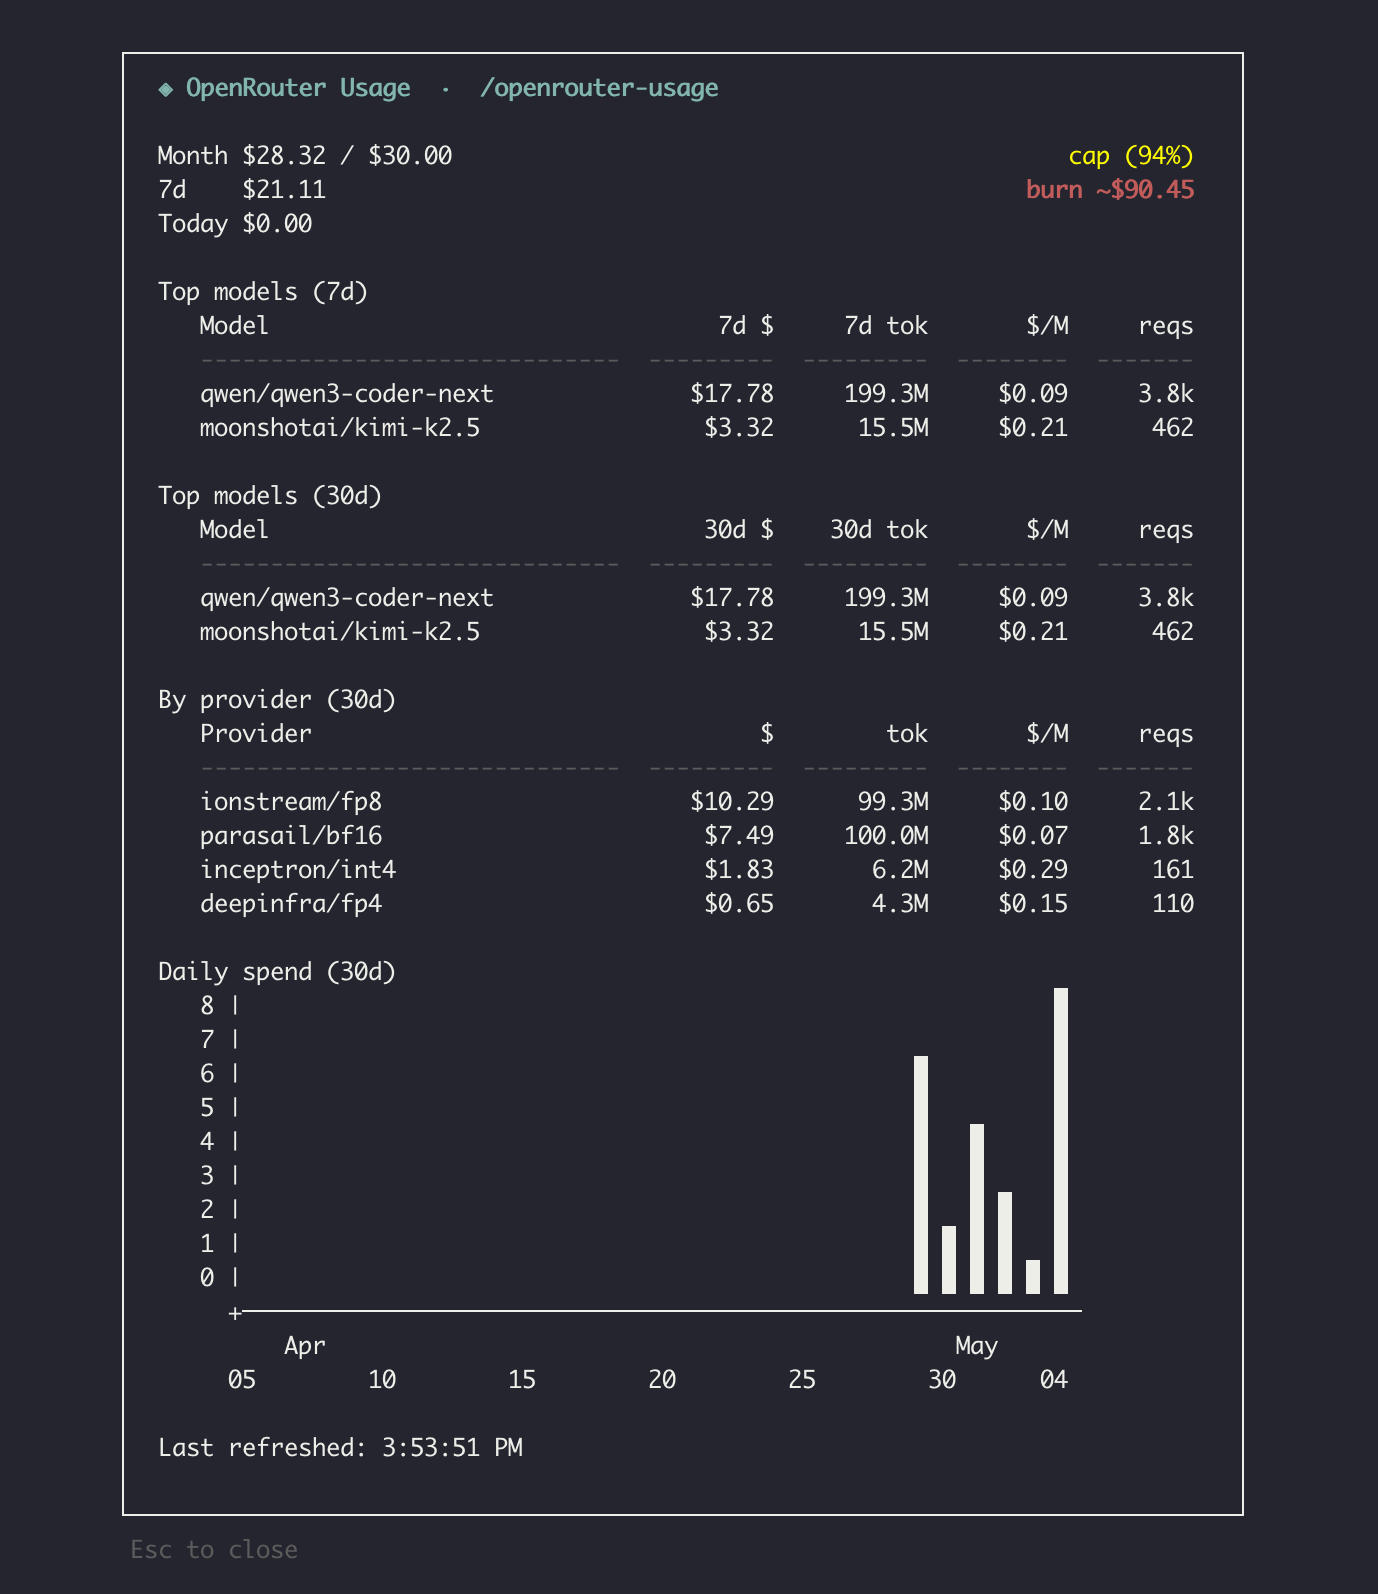
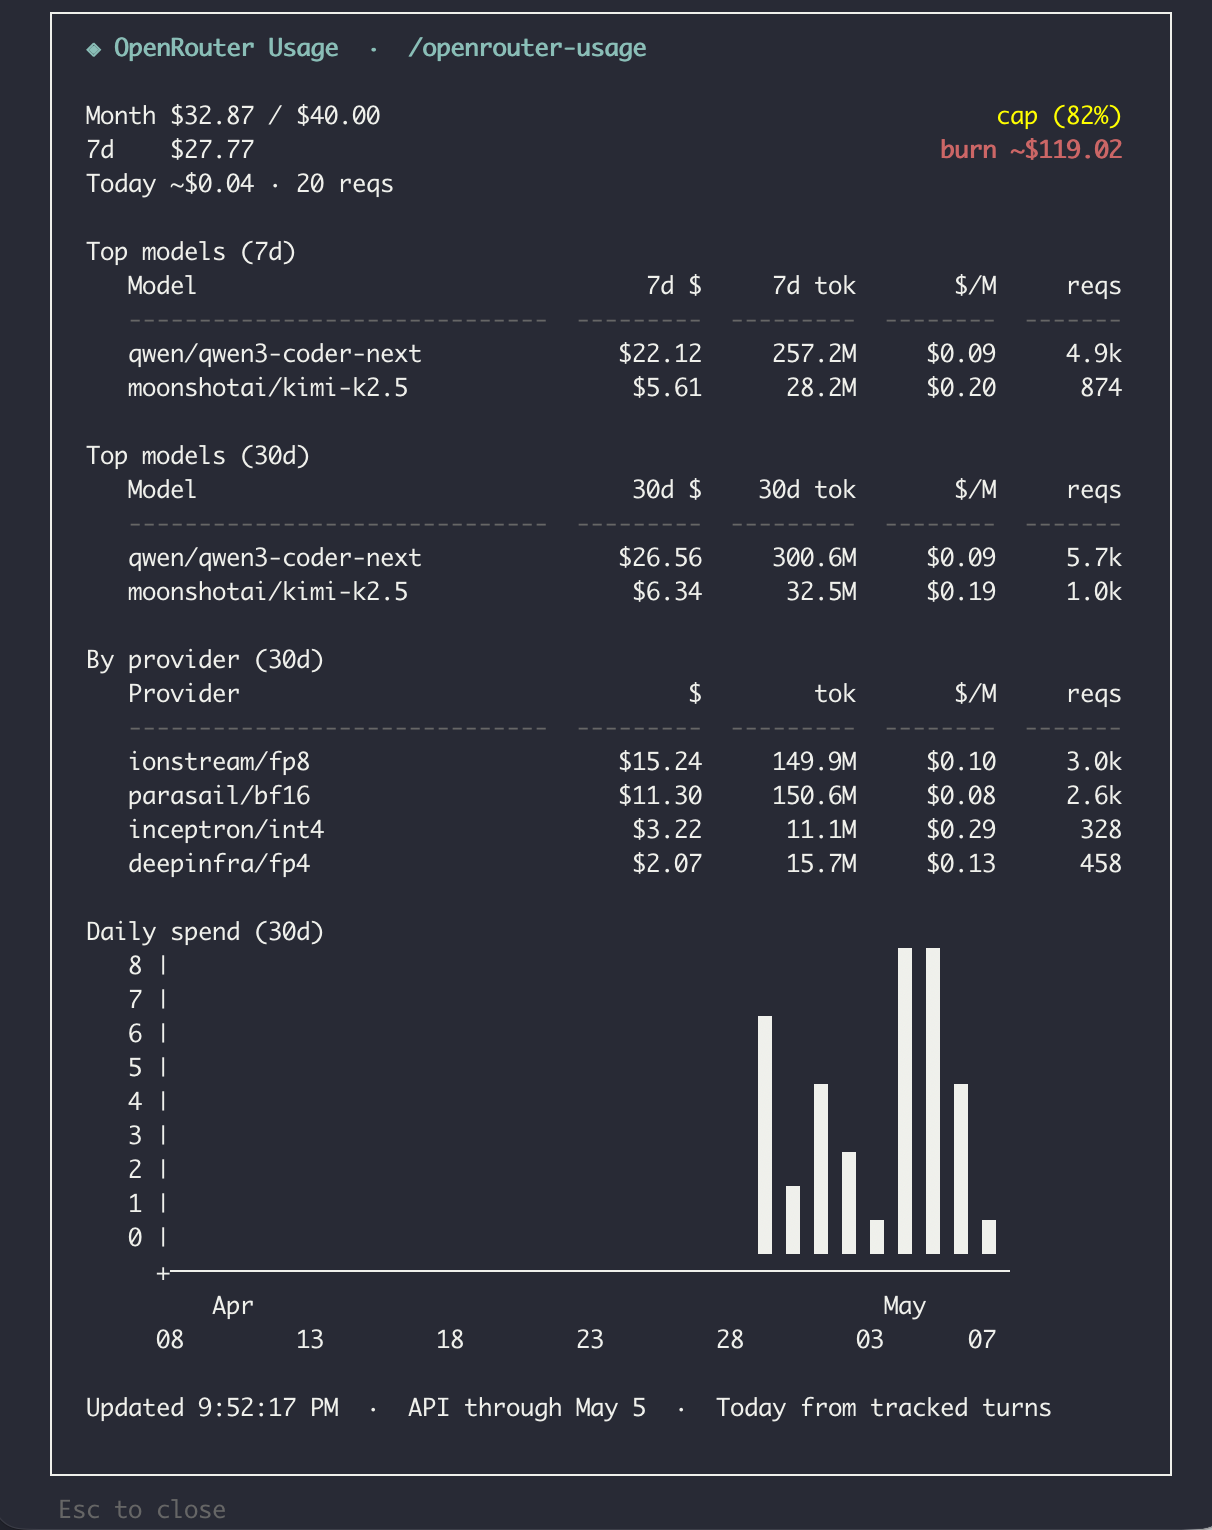
udpate preview image

diff --git a/packages/pi-openrouter/extensions/openrouter/__tests__/format.test.ts b/packages/pi-openrouter/extensions/openrouter/__tests__/format.test.ts
@@ -4,16 +4,17 @@ import { renderSpendSparkline } from '../chart.js';
 import type { ActivityItem } from '@openrouter/sdk/models/index.js';
 
 describe('aggregateUsage', () => {
-  it('should correctly aggregate today spend regardless of timezone', () => {
+  it('should correctly aggregate today spend using UTC date', () => {
     const credits = {
       totalUsage: 10,
       totalCredits: 100,
     };
 
-    // Get today's date in YYYY-MM-DD format using LOCAL date
+    // Get today's date in YYYY-MM-DD format using UTC date
     // This matches how the API returns dates (YYYY-MM-DD without timezone)
+    // and how the implementation calculates 'today' (using UTC)
     const now = new Date();
-    const todayStr = `${now.getFullYear()}-${String(now.getMonth() + 1).padStart(2, '0')}-${String(now.getDate()).padStart(2, '0')}`;
+    const todayStr = `${now.getUTCFullYear()}-${String(now.getUTCMonth() + 1).padStart(2, '0')}-${String(now.getUTCDate()).padStart(2, '0')}`;
 
     const analytics: ActivityItem[] = [
       {
@@ -33,9 +34,6 @@ describe('aggregateUsage', () => {
 
     const result = aggregateUsage(credits, analytics);
 
-    // Today should include data from todayStr (date strings compared directly)
-    // This was previously a bug where dates were parsed as UTC timestamps
-    // causing timezone-related filtering errors
     expect(result.today).toBe(6.55);
   });
 

diff --git a/packages/pi-openrouter/README.md b/packages/pi-openrouter/README.md
@@ -8,12 +8,14 @@ A [Pi](https://pi.dev/) extension for OpenRouter usage and session visibility, w
 pi install npm:@robhowley/pi-openrouter
 ```
 
+![OpenRouter Usage Overlay](https://raw.githubusercontent.com/robhowley/pi-userland/main/packages/pi-openrouter/img/openrouter-usage-tui.png)
+
 ## Requirements
 
 Set one of these environment variables:
 
-- `OPENROUTER_MANAGEMENT_KEY` (preferred) — provides full usage data including model breakdowns
-- `OPENROUTER_API_KEY` — basic usage data only
+- `OPENROUTER_MANAGEMENT_KEY` (preferred), provides full usage data including model breakdowns
+- `OPENROUTER_API_KEY`, basic usage data only
 
 ```shell
 export OPENROUTER_MANAGEMENT_KEY=sk-or-...
@@ -26,10 +28,10 @@ Type `/openrouter-usage` in Pi to open the usage overlay.
 The overlay shows:
 - **Month spend** vs cap with percentage
 - **7-day spend** with burn rate projection
-- **Today's spend**
+- **Today's spend** from live tracked turns when the Activity API is lagged
 - **Top models** (7d and 30d)
 - **Usage by provider** (30d)
-- **Usage by day** (last 7 days)
+- **Daily spend** (30d)
 
 The extension refreshes data in the background every 30 seconds (with exponential backoff on errors).
 
@@ -39,7 +41,7 @@ Press `q`, `Esc`, or `Ctrl+C` to close the overlay.
 
 `pi-openrouter` automatically tags OpenRouter requests with `session_id` field set to the Pi session's ID.
 
-Can view the Pi session ID with
+View the Pi session ID with
 
 ```bash
 /session  # [uuid]
@@ -54,7 +56,7 @@ The session can be tracked in OpenRouter's logs under the following ID:
 pi:[uuid]
 ```
 
-This feature allows for session level tracking the OpenRouter → Logs → Sessions page. It does not use Pi session names, local paths, repo names, branches, or other local identifiers.
+This enables session-level tracking in the OpenRouter Logs → Sessions page.
 
 ## License
 